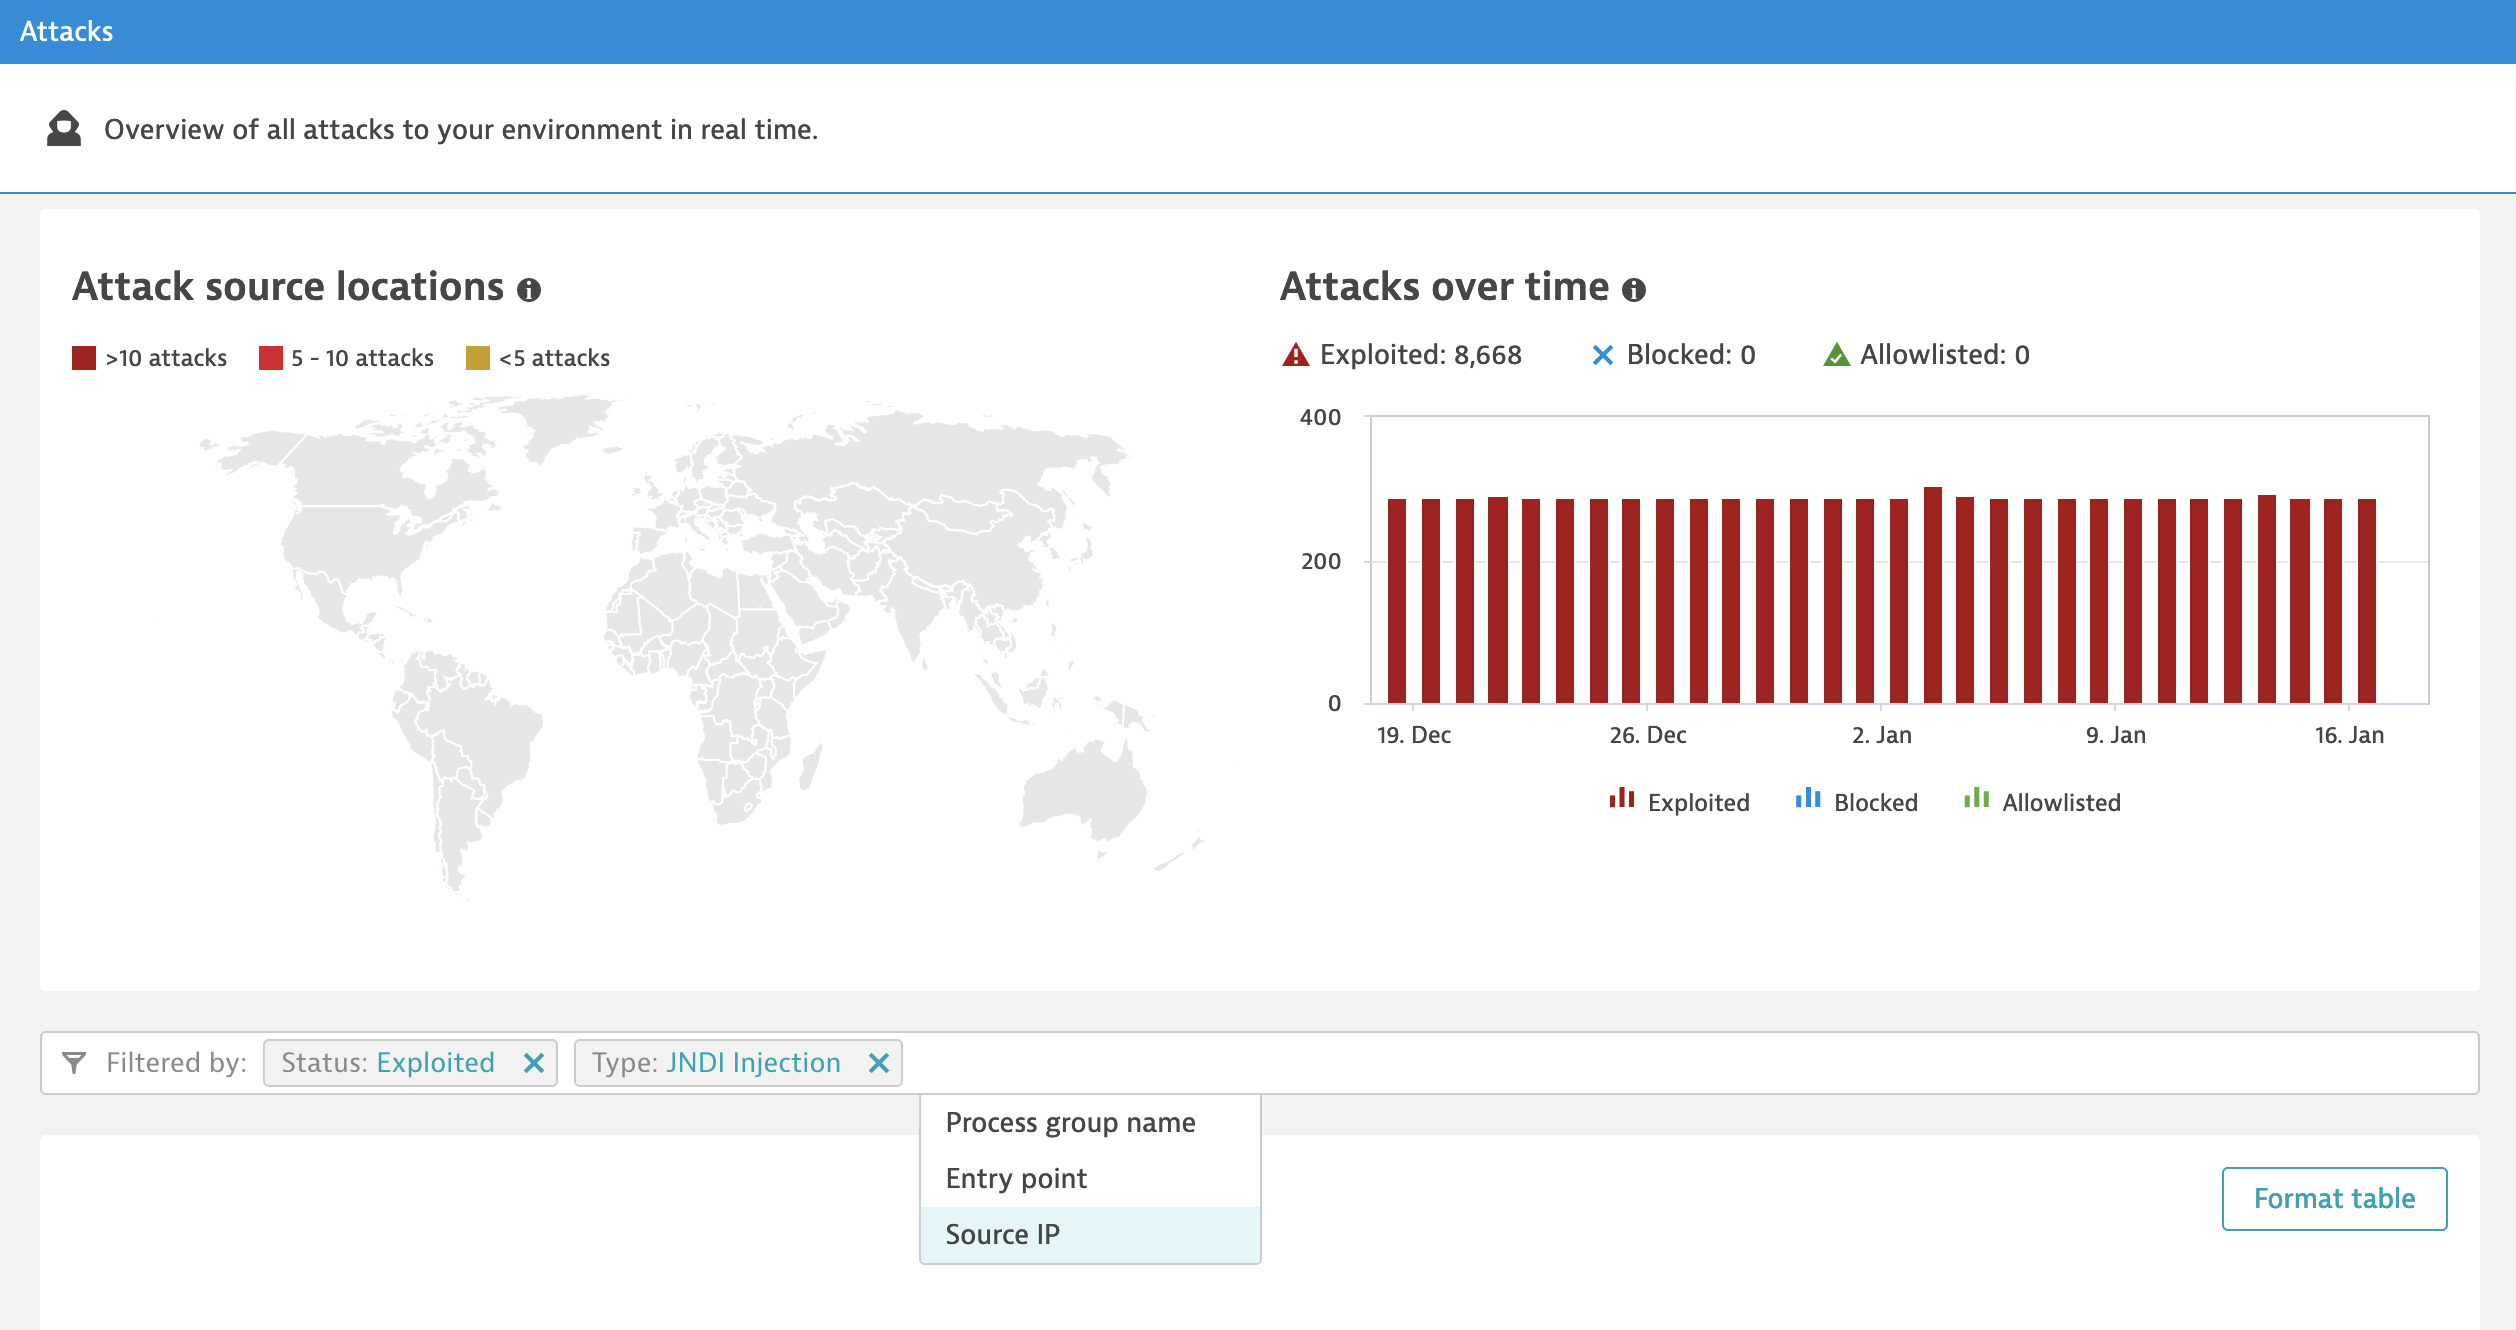
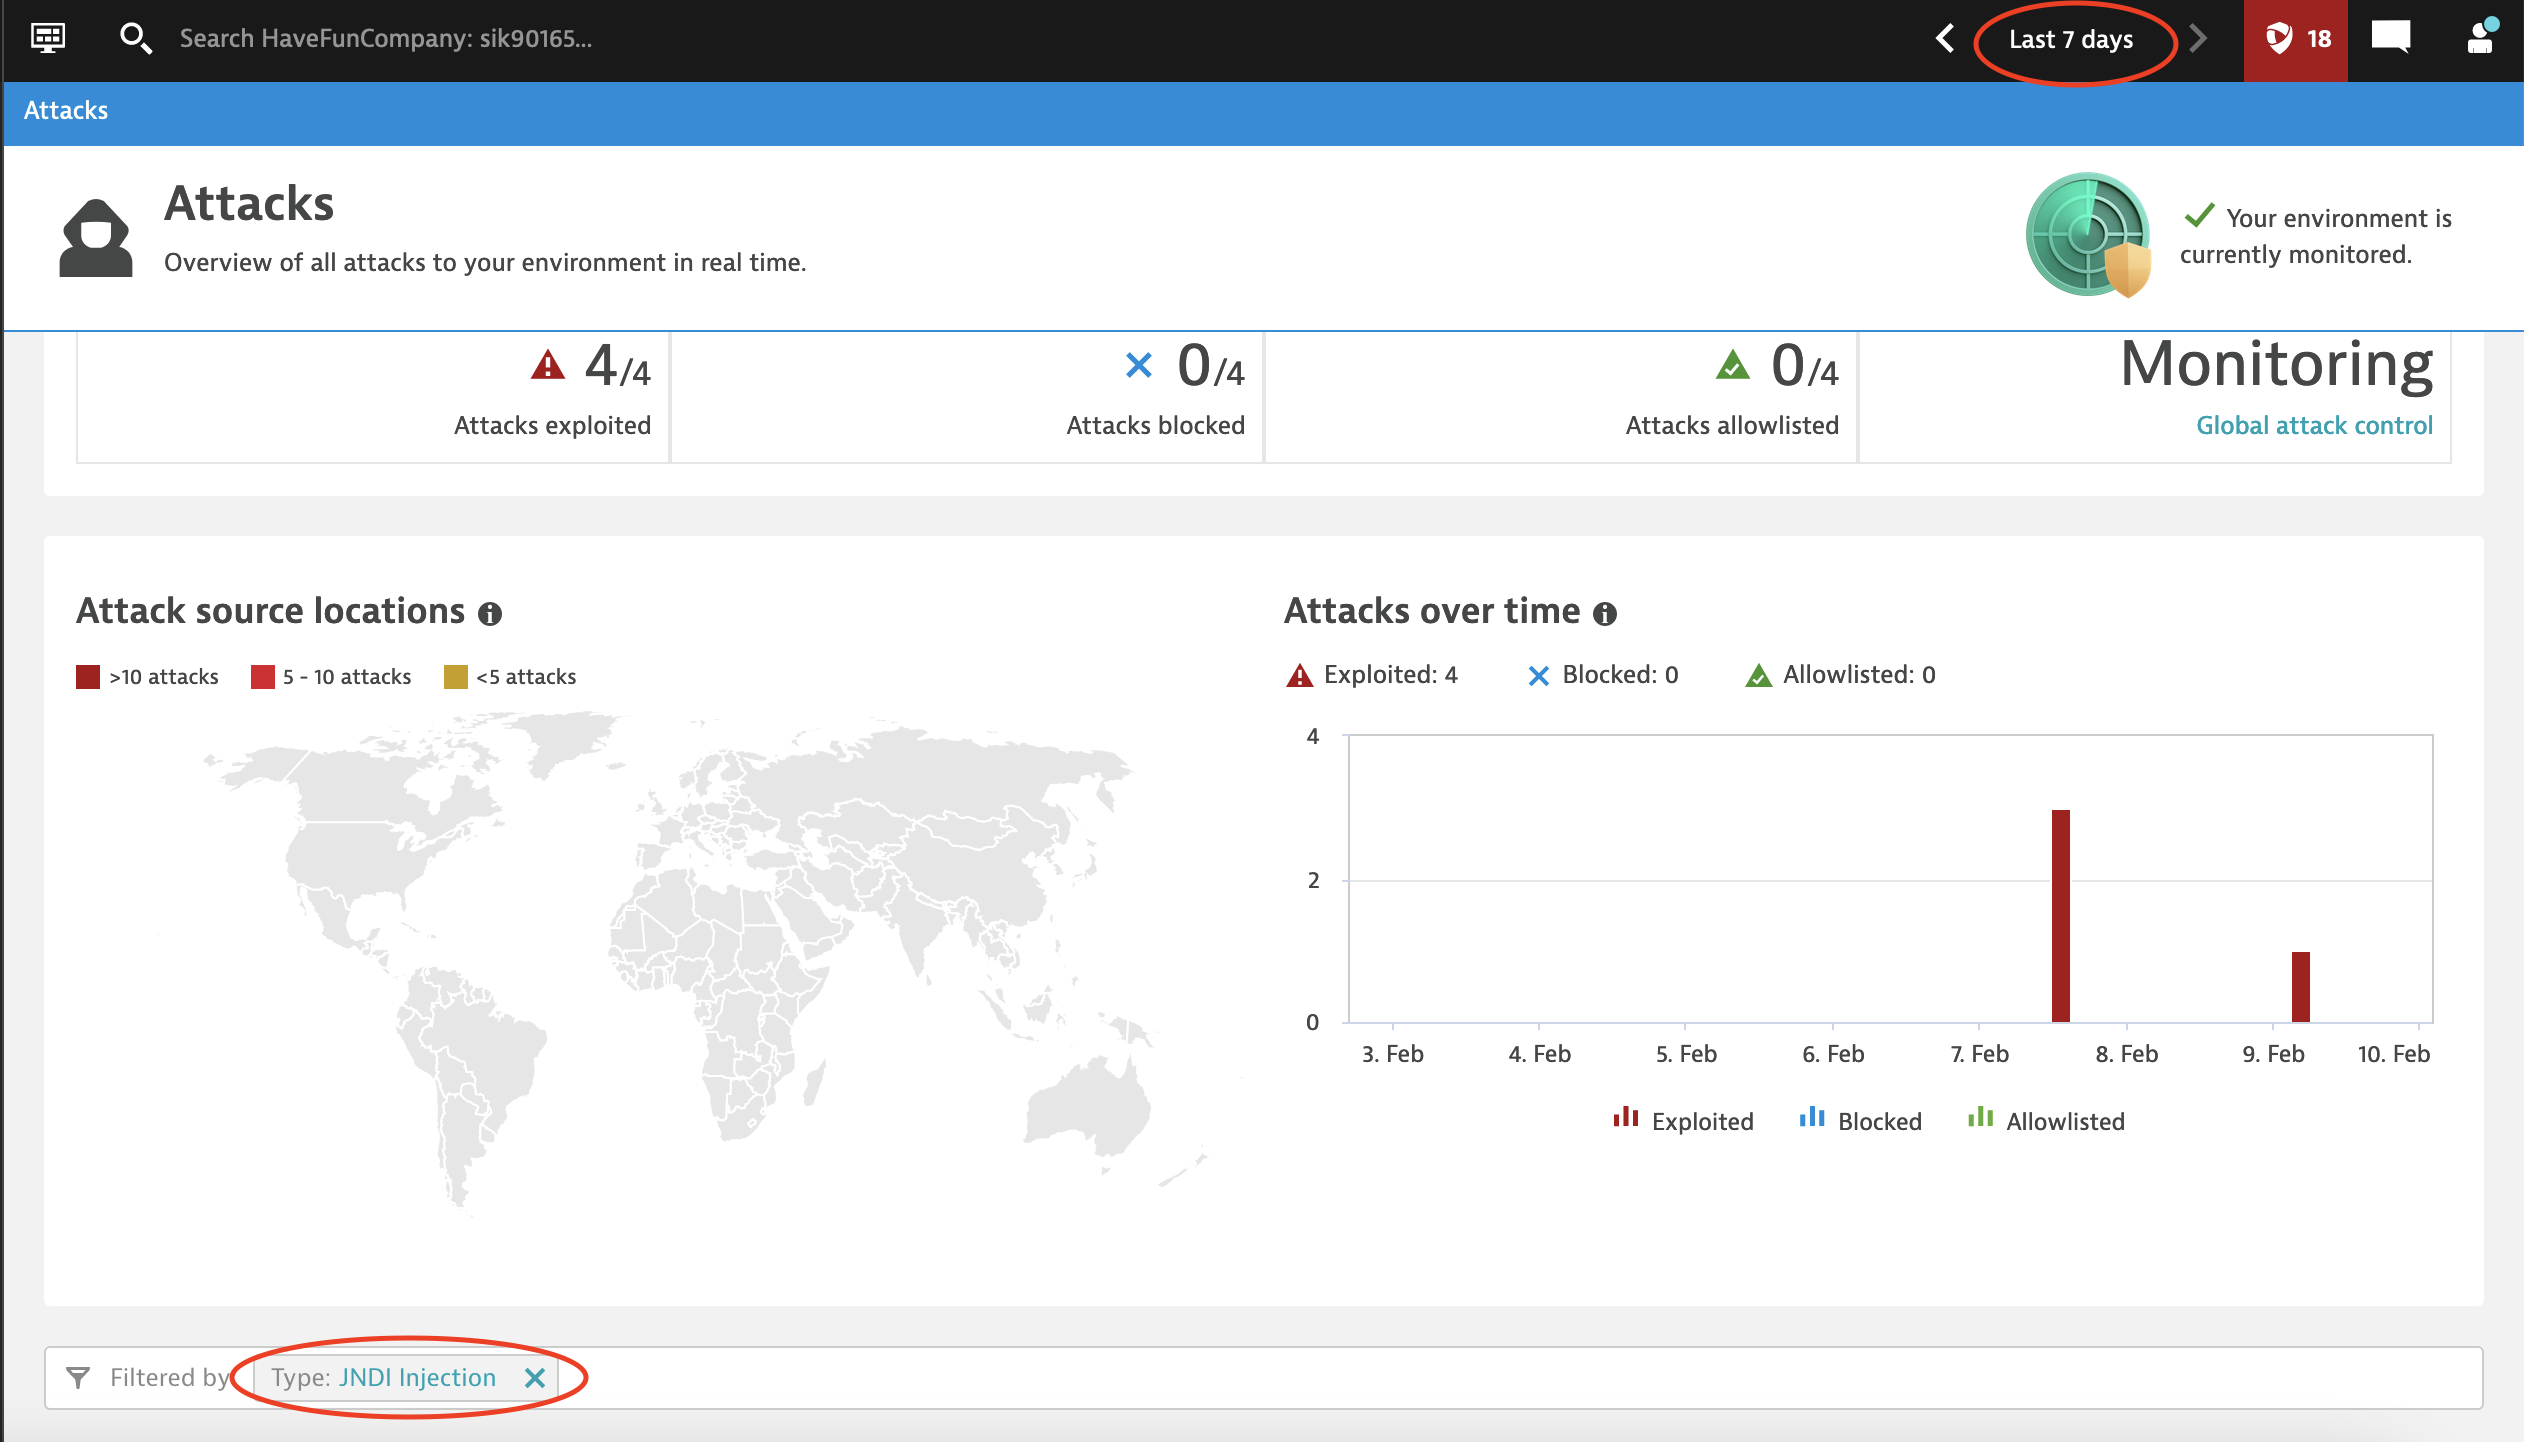
adjusted lab 4

diff --git a/Understanding WebApp Hacking and Forensics/content/04_investigation/index.md b/Understanding WebApp Hacking and Forensics/content/04_investigation/index.md
@@ -125,9 +125,9 @@ After that use database and access logs to find the actual sql statement and att
 #### Step 1. Open the Dynatrace instance and go to "Application Security > Attacks" 
 
 You will see all the attacks that Dynatrace detected, since we all use the same Dynatrace instance, you will see the 
-attacks of the other participants. Try to find jndi injection attack which occurred from IP-address 10.1.43.70
+attacks of the other participants. Use timeframe `Last 7 days` and filter by `Type: JNDI Injection`. 
+Select the first exploited attack, dated `Feb 09 09:33`.
 
-*Hint:* use filtering bar to specify IP-address
 ![img.png](../../assets/images/04_investigation_rap_search.png)
 
 Select the attack details and observe the attack vector:
@@ -174,8 +174,7 @@ fetch logs, from:-90d, samplingRatio:1, scanLimitGBytes:-1
 ```
 
 You should see all `SYSCALL` records executed by insecure bank java process. As you can see they're all executing system 
-call [`execve()`]'(https://www.google.com/url?sa=t&rct=j&q=&esrc=s&source=web&cd=&cad=rja&uact=8&ved=2ahUKEwiJlLX63s78AhUOiYsKHfvgDVgQFnoECAsQAQ&url=https%3A%2F%2Fman7.org%2Flinux%2Fman-pages%2Fman2%2Fexecve.2.html&usg=AOvVaw2tz4jrlcx0fddRr4wYEjXf), 
-executing command `sh`.
+call [`execve()`](https://man7.org/linux/man-pages/man2/execve.2.html), executing command `sh`.
 
 To see more details of each executed command, run following query:
 ```

diff --git a/Understanding WebApp Hacking and Forensics/content/hints/index.md b/Understanding WebApp Hacking and Forensics/content/hints/index.md
@@ -132,3 +132,5 @@ fetch logs, from:-90d, samplingRatio:1, scanLimitGBytes:-1
 | summarize failed=count(), by:username
 | sort failed desc
 ```
+
+
